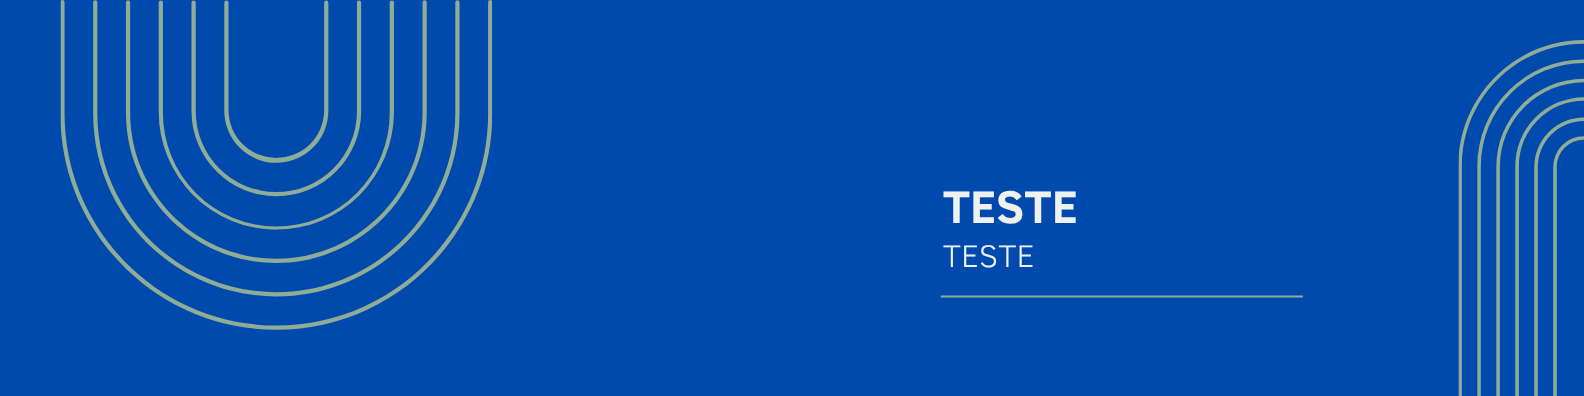
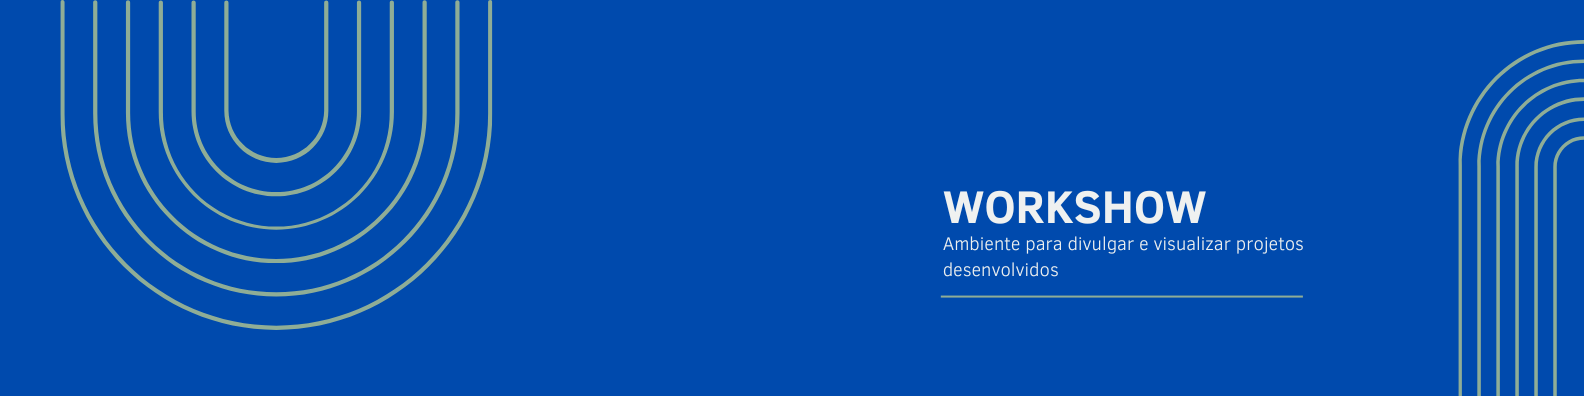
versao 001

diff --git a/view/postagem/visualizarProjeto.php b/view/postagem/visualizarProjeto.php
@@ -1,7 +1,9 @@
 <?php
 include_once '../../model/Projeto.php';
+include_once '../../model/Categoria.php';
+include_once '../../model/Usuario.php';
 
-// Verifica se veio o ID do projeto pela URL
+// Verificar se veio o ID do projeto
 if (!isset($_GET['id']) || empty($_GET['id'])) {
     echo "Projeto não encontrado.";
     exit;
@@ -14,13 +16,21 @@ if (!$projeto) {
     echo "Projeto não encontrado.";
     exit;
 }
+
+// Buscar nome da categoria
+$categoria = Categoria::buscarPorId($projeto['id_categoria']);
+$nomeCategoria = $categoria ? $categoria['nome'] : 'Sem categoria';
+
+// Buscar nome do usuário
+$usuario = Usuario::buscarPorId($projeto['id_usuario']);
+$nomeUsuario = $usuario ? $usuario['nome'] : 'Autor não informado';
 ?>
 <!DOCTYPE html>
 <html lang="pt-BR">
 <head>
     <meta charset="UTF-8">
     <meta name="viewport" content="width=device-width, initial-scale=1.0">
-    <title>Detalhes do Projeto</title>
+    <title><?php echo htmlspecialchars($projeto['titulo']); ?> - WorkShow</title>
     <link href="https://cdn.jsdelivr.net/npm/bootstrap@5.3.0/dist/css/bootstrap.min.css" rel="stylesheet">
 
     <style>
@@ -32,7 +42,7 @@ if (!$projeto) {
             border-radius: 12px;
             padding: 30px;
             box-shadow: 0 6px 12px rgba(0,0,0,0.1);
-            max-width: 800px;
+            max-width: 900px;
             margin: 40px auto;
         }
         .projeto-img {
@@ -56,10 +66,14 @@ if (!$projeto) {
         <p><strong>Descrição:</strong></p>
         <p><?php echo nl2br(htmlspecialchars($projeto['descricao'])); ?></p>
 
-        <p><strong>Data:</strong> <?php echo date('d/m/Y', strtotime($projeto['data'])); ?></p>
+        <hr>
 
-        <div class="mt-4">
-            <a href="../index.php" class="btn btn-secondary">Voltar para os Projetos</a>
+        <p><strong>Categoria:</strong> <?php echo htmlspecialchars($nomeCategoria); ?></p>
+        <p><strong>Autor:</strong> <?php echo htmlspecialchars($nomeUsuario); ?></p>
+        <p><strong>Publicado em:</strong> <?php echo date('d/m/Y', strtotime($projeto['data'])); ?></p>
+
+        <div class="mt-4 text-center">
+            <a href="../index.php" class="btn btn-secondary">← Voltar para os Projetos</a>
         </div>
     </div>
 </div>

diff --git a/view/index.php b/view/index.php
@@ -52,7 +52,7 @@ session_start();
 <!-- Navbar -->
 <nav class="navbar navbar-expand-lg navbar-dark bg-primary">
     <div class="container-fluid">
-        <a class="navbar-brand" href="#">Meu Site</a>
+        <a class="navbar-brand" href="index.php">WorkShow</a>
         <button class="navbar-toggler" type="button" data-bs-toggle="collapse" data-bs-target="#navbarNav">
             <span class="navbar-toggler-icon"></span>
         </button>
@@ -85,9 +85,7 @@ session_start();
                         <ul class="dropdown-menu">
                             <li><a class="dropdown-item" href="../view/postagem/postarProjeto.php">Cadastrar Projetos</a></li>
                             <li><a class="dropdown-item" href="../view/postagem/listarProjeto.php">Listar Projetos</a></li>
-                            <li><a class="dropdown-item" href="../view/postagem/postarProjeto.php">Listar Projetos</a></li>
-
-
+            
                         </ul>
                  </li>
 
@@ -230,7 +228,7 @@ if (isset($_GET['msg'])) {
 <!-- Rodapé -->
 <footer>
     <div class="container text-center">
-        <p>&copy; 2025 Meu Site. Todos os direitos reservados.</p>
+        <p>&copy; 2025 WorkShow. Todos os direitos reservados.</p>
         <p>
             <a href="#">Política de Privacidade</a> | 
             <a href="#">Termos de Uso</a> | 

diff --git a/model/Categoria.php b/model/Categoria.php
@@ -114,6 +114,36 @@ class Categoria {
         }
     }
 
+    public static function temProjetosVinculados($id_categoria) {
+    $conexao = new Conexao();
+    $conn = $conexao->getConnection();
+
+    $stmt = $conn->prepare("SELECT COUNT(*) as total FROM postagem WHERE id_categoria = ?");
+    $stmt->bind_param("i", $id_categoria);
+    $stmt->execute();
+    $result = $stmt->get_result();
+    $row = $result->fetch_assoc();
+
+    return ($row['total'] > 0);
+}
+
+public static function existeCategoria() {
+    $conexao = new Conexao();
+    $conn = $conexao->getConnection();
+
+    $sql = "SELECT COUNT(*) AS total FROM categorias";
+    $result = $conn->query($sql);
+
+    if ($result) {
+        $row = $result->fetch_assoc();
+        return ($row['total'] > 0);
+    } else {
+        return false;
+    }
+}
+
+
+
 
     
 }

diff --git a/controller/categoriaController/deletarCategoria.php b/controller/categoriaController/deletarCategoria.php
@@ -1,8 +1,16 @@
 <?php
-
 include_once '../../model/Categoria.php';
-Categoria::excluir($_GET['id']);
 
- header("Location: ../../view/categoria/cadastrarcategoria.php?msg=Categoria excluída com sucesso");
+$id = intval($_GET['id']);
 
+if (Categoria::temProjetosVinculados($id)) {
+    header("Location: ../../view/categoria/cadastrarcategoria.php?msg=Erro: Esta categoria possui projetos vinculados. Exclua ou mova os projetos antes de apagar a categoria.");
+    exit;
+}
+
+if (Categoria::excluir($id)) {
+    header("Location: ../../view/categoria/cadastrarcategoria.php?msg=Categoria excluída com sucesso!");
+} else {
+    header("Location: ../../view/categoria/cadastrarcategoria.php?msg=Erro ao excluir a categoria.");
+}
 ?>

diff --git a/view/postagem/postarProjeto.php b/view/postagem/postarProjeto.php
@@ -55,6 +55,10 @@
                     <option value="">Selecione uma categoria</option>
                     <?php
                     include_once '../../model/Categoria.php';
+                     if (!Categoria::existeCategoria()) {
+                        header("Location:../categoria/cadastrarcategoria.php?msg=Você precisa cadastrar uma categoria antes de criar projetos.");
+                        exit;
+                    }
                     $categorias = Categoria::listar();
                     foreach ($categorias as $categoria) {
                         echo '<option value="'.$categoria['id_categoria'].'">'.htmlspecialchars($categoria['nome']).'</option>';
